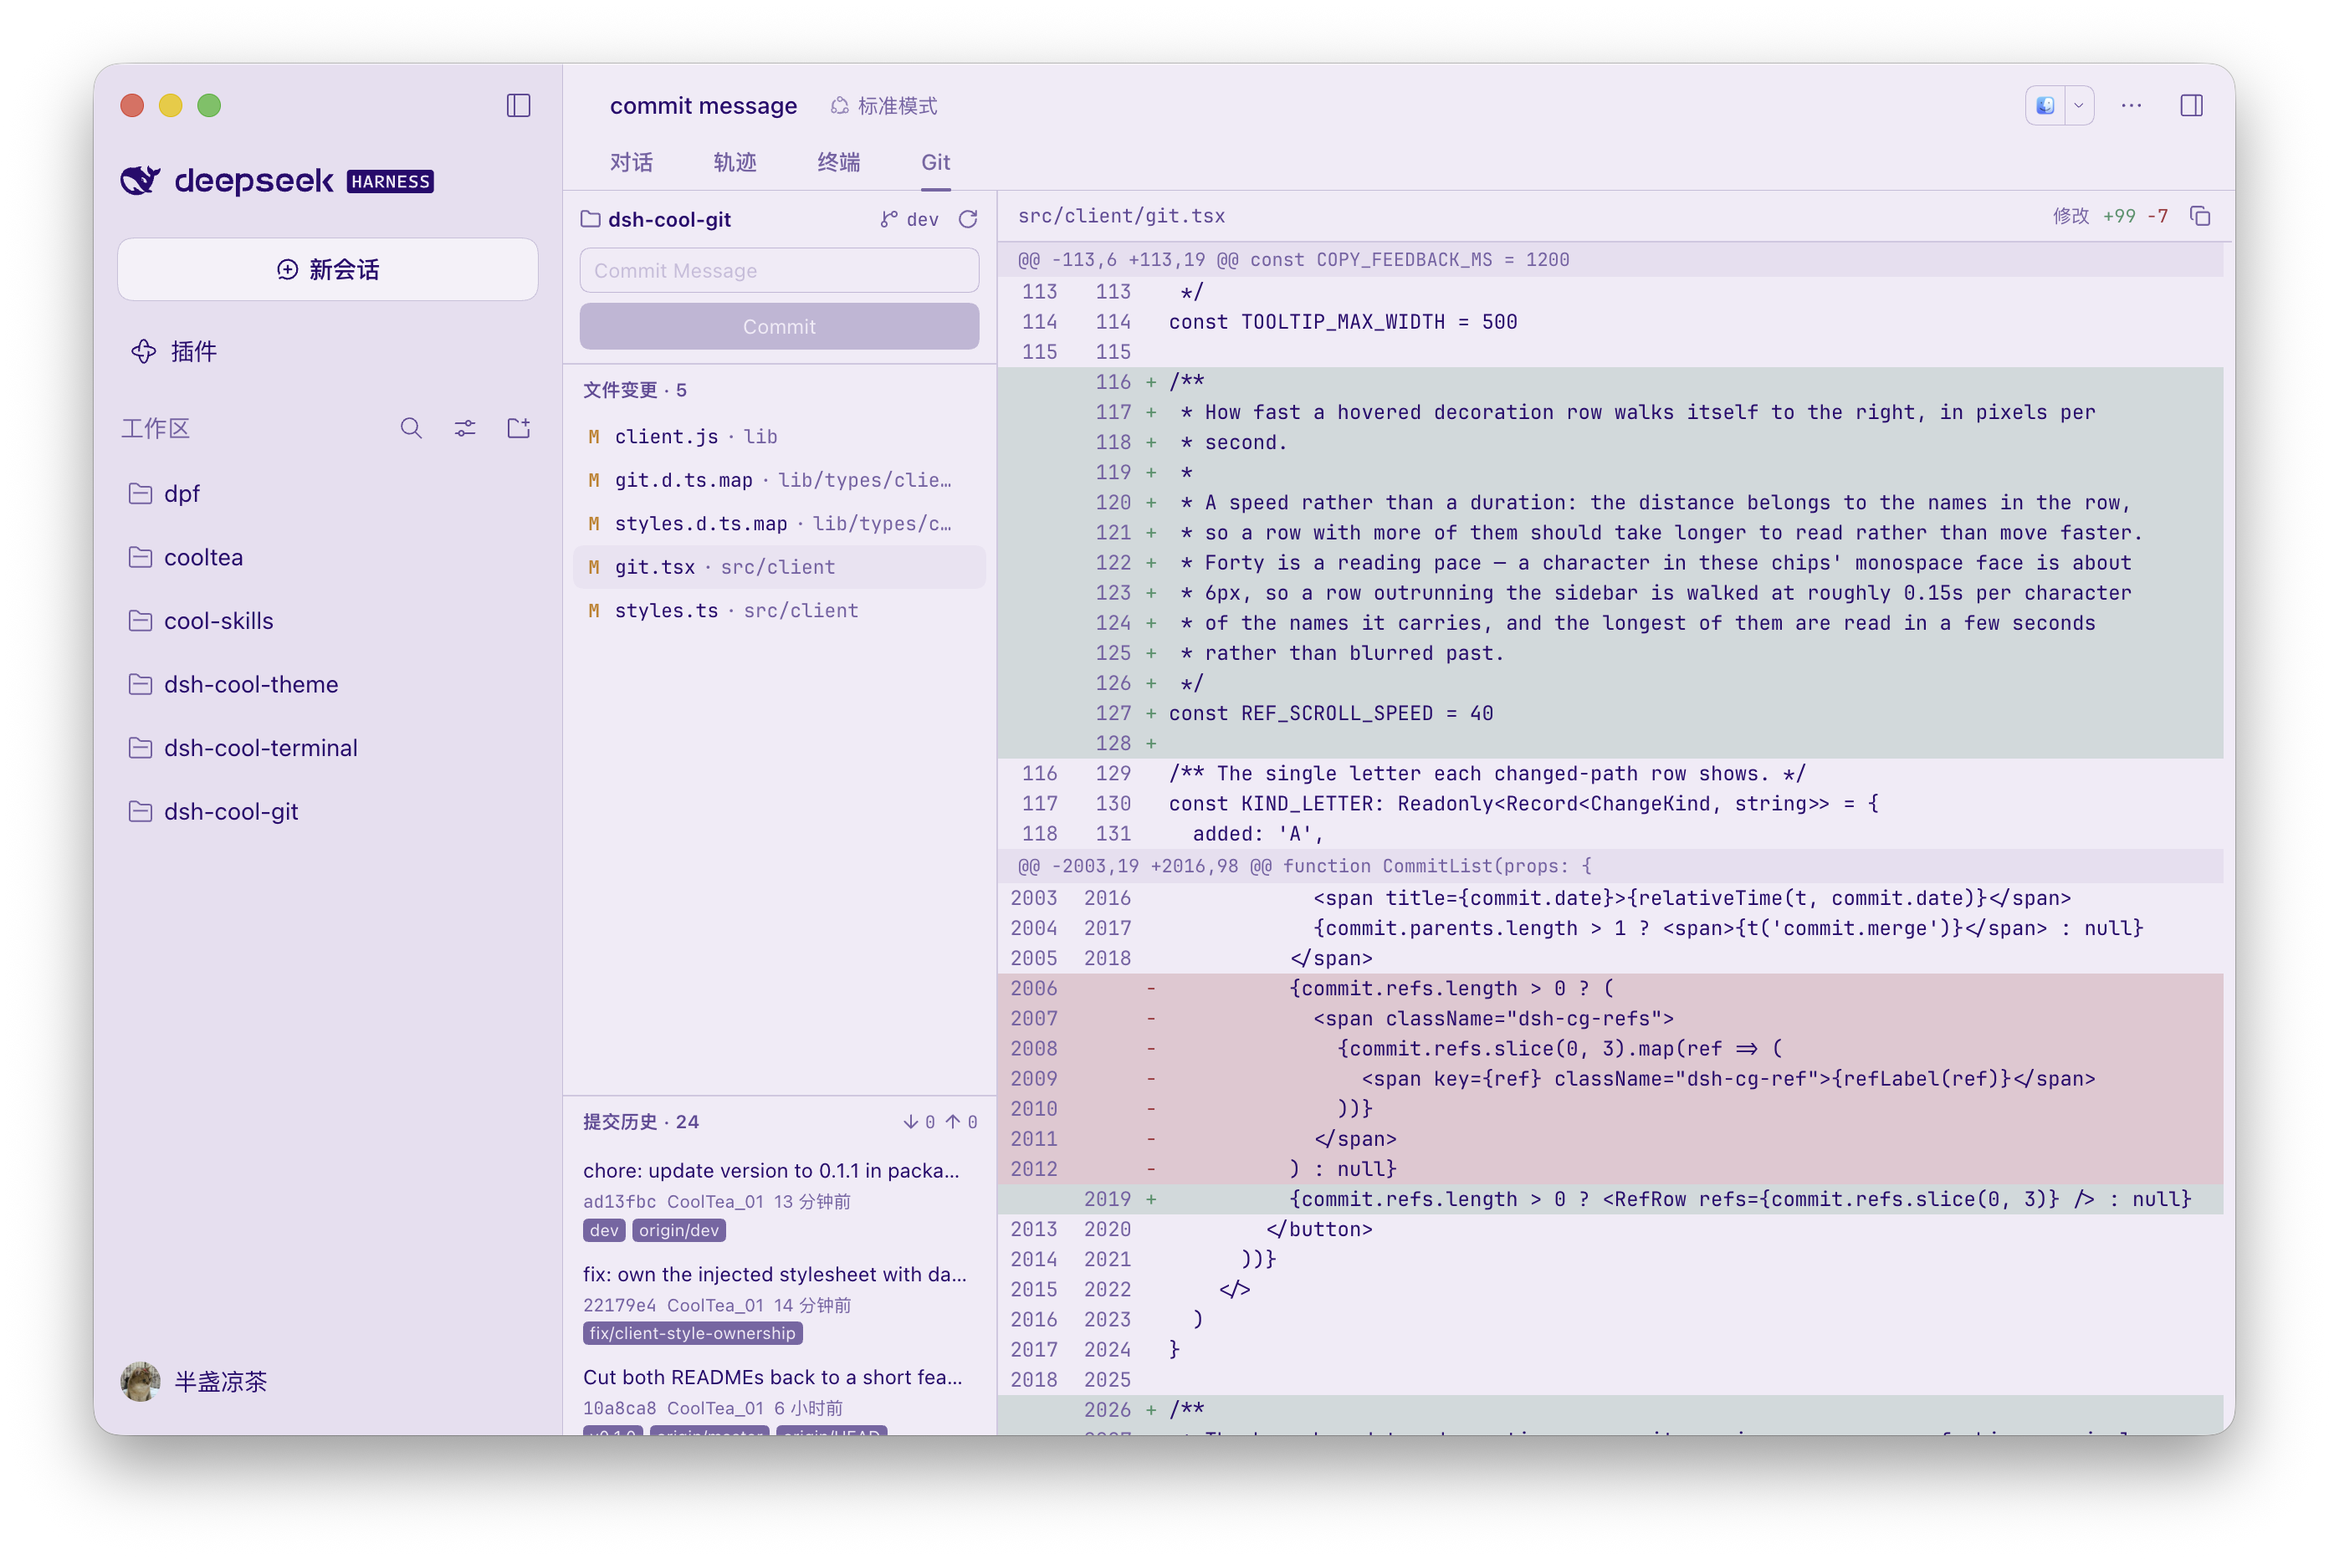
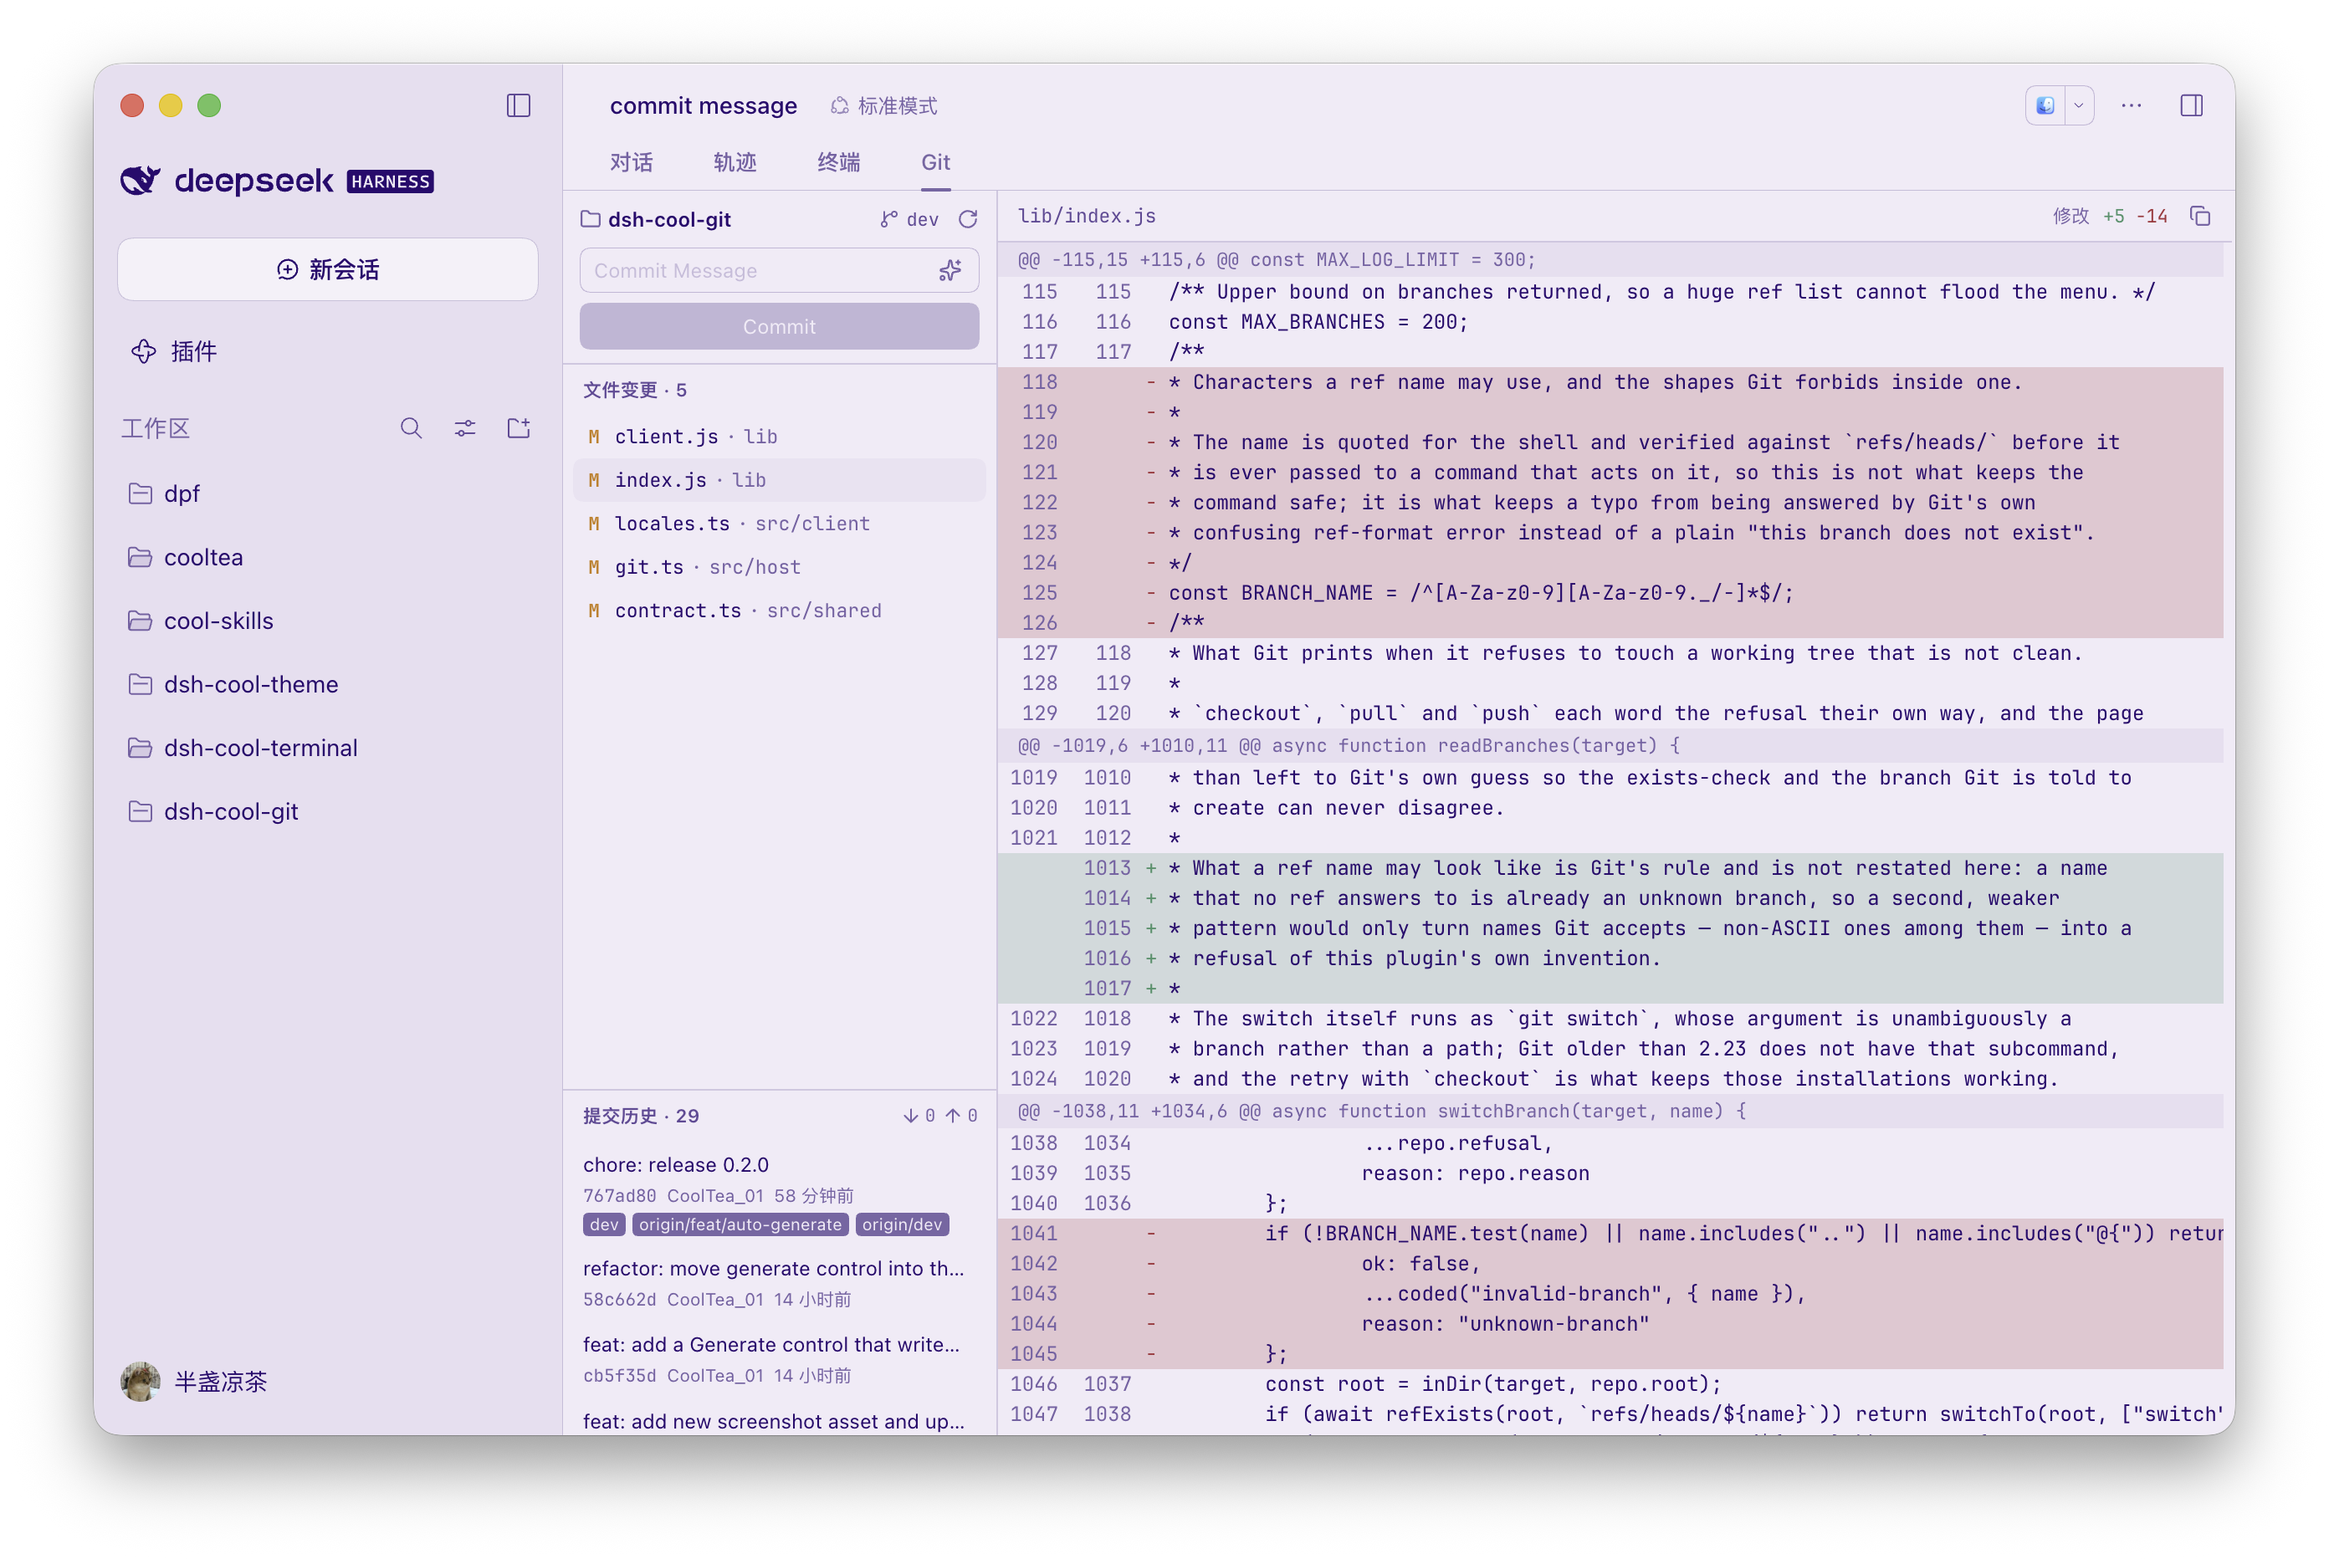
refactor: drop duplicate branch name validation in switchBranch
Remove the BRANCH_NAME pattern and the invalid-branch failure code
across host, contract and locales; an unknown ref already reports
unknown-branch, and the pattern rejected valid non-ASCII names.
Refresh the README cover to v0.2.0.

diff --git a/src/host/git.ts b/src/host/git.ts
@@ -77,16 +77,6 @@ const MAX_LOG_LIMIT = 300
 const MAX_BRANCHES = 200
 
 /**
- * Characters a ref name may use, and the shapes Git forbids inside one.
- *
- * The name is quoted for the shell and verified against `refs/heads/` before it
- * is ever passed to a command that acts on it, so this is not what keeps the
- * command safe; it is what keeps a typo from being answered by Git's own
- * confusing ref-format error instead of a plain "this branch does not exist".
- */
-const BRANCH_NAME = /^[A-Za-z0-9][A-Za-z0-9._/-]*$/
-
-/**
  * What Git prints when it refuses to touch a working tree that is not clean.
  *
  * `checkout`, `pull` and `push` each word the refusal their own way, and the page
@@ -969,6 +959,11 @@ export async function readBranches(target: GitTarget): Promise<BranchesPayload> 
  * than left to Git's own guess so the exists-check and the branch Git is told to
  * create can never disagree.
  *
+ * What a ref name may look like is Git's rule and is not restated here: a name
+ * that no ref answers to is already an unknown branch, so a second, weaker
+ * pattern would only turn names Git accepts — non-ASCII ones among them — into a
+ * refusal of this plugin's own invention.
+ *
  * The switch itself runs as `git switch`, whose argument is unambiguously a
  * branch rather than a path; Git older than 2.23 does not have that subcommand,
  * and the retry with `checkout` is what keeps those installations working.
@@ -984,10 +979,6 @@ export async function readBranches(target: GitTarget): Promise<BranchesPayload> 
 export async function switchBranch(target: GitTarget, name: string): Promise<CheckoutPayload> {
   const repo = await resolveRepo(target)
   if ('refusal' in repo) return { ok: false, ...repo.refusal, reason: repo.reason }
-  if (!BRANCH_NAME.test(name) || name.includes('..') || name.includes('@{')) {
-    return { ok: false, ...coded('invalid-branch', { name }), reason: 'unknown-branch' }
-  }
-
   const root = inDir(target, repo.root)
   if (await refExists(root, `refs/heads/${name}`)) {
     return switchTo(root, ['switch', name], ['checkout', name], name)

diff --git a/lib/index.js b/lib/index.js
@@ -115,15 +115,6 @@ const MAX_LOG_LIMIT = 300;
 /** Upper bound on branches returned, so a huge ref list cannot flood the menu. */
 const MAX_BRANCHES = 200;
 /**
-* Characters a ref name may use, and the shapes Git forbids inside one.
-*
-* The name is quoted for the shell and verified against `refs/heads/` before it
-* is ever passed to a command that acts on it, so this is not what keeps the
-* command safe; it is what keeps a typo from being answered by Git's own
-* confusing ref-format error instead of a plain "this branch does not exist".
-*/
-const BRANCH_NAME = /^[A-Za-z0-9][A-Za-z0-9._/-]*$/;
-/**
 * What Git prints when it refuses to touch a working tree that is not clean.
 *
 * `checkout`, `pull` and `push` each word the refusal their own way, and the page
@@ -1019,6 +1010,11 @@ async function readBranches(target) {
 * than left to Git's own guess so the exists-check and the branch Git is told to
 * create can never disagree.
 *
+* What a ref name may look like is Git's rule and is not restated here: a name
+* that no ref answers to is already an unknown branch, so a second, weaker
+* pattern would only turn names Git accepts — non-ASCII ones among them — into a
+* refusal of this plugin's own invention.
+*
 * The switch itself runs as `git switch`, whose argument is unambiguously a
 * branch rather than a path; Git older than 2.23 does not have that subcommand,
 * and the retry with `checkout` is what keeps those installations working.
@@ -1037,11 +1033,6 @@ async function switchBranch(target, name) {
 		ok: false,
 		...repo.refusal,
 		reason: repo.reason
-	};
-	if (!BRANCH_NAME.test(name) || name.includes("..") || name.includes("@{")) return {
-		ok: false,
-		...coded("invalid-branch", { name }),
-		reason: "unknown-branch"
 	};
 	const root = inDir(target, repo.root);
 	if (await refExists(root, `refs/heads/${name}`)) return switchTo(root, ["switch", name], ["checkout", name], name);

diff --git a/lib/client.js b/lib/client.js
@@ -115,7 +115,6 @@ window.__ModuleLoader__.load({
 			"error.no-root": "git returned no repository root",
 			"error.no-commits": "This repository has no commits yet",
 			"error.unparsable-commit": "Could not parse that commit",
-			"error.invalid-branch": "Invalid branch name: {name}",
 			"error.unknown-branch": "No such branch: {name}",
 			"error.remote-local-name": "Could not derive a local branch name from the remote branch: {name}",
 			"error.checkout-denied": "The current permission mode does not allow switching branches: it needs to write the workspace",
@@ -248,7 +247,6 @@ window.__ModuleLoader__.load({
 			"error.no-root": "git 未返回仓库根目录",
 			"error.no-commits": "该仓库还没有任何提交",
 			"error.unparsable-commit": "无法解析该提交",
-			"error.invalid-branch": "分支名不合法：{name}",
 			"error.unknown-branch": "分支不存在：{name}",
 			"error.remote-local-name": "无法从远程分支推导本地分支名：{name}",
 			"error.checkout-denied": "当前权限模式不允许切换分支：该操作需要写入工作区",

diff --git a/src/client/locales.ts b/src/client/locales.ts
@@ -276,7 +276,6 @@ export const en = {
   'error.no-commits': 'This repository has no commits yet',
   'error.unparsable-commit': 'Could not parse that commit',
 
-  'error.invalid-branch': 'Invalid branch name: {name}',
   'error.unknown-branch': 'No such branch: {name}',
   'error.remote-local-name': 'Could not derive a local branch name from the remote branch: {name}',
   'error.checkout-denied': 'The current permission mode does not allow switching branches: it needs to write the workspace',
@@ -433,7 +432,6 @@ export const zh: typeof en = {
   'error.no-commits': '该仓库还没有任何提交',
   'error.unparsable-commit': '无法解析该提交',
 
-  'error.invalid-branch': '分支名不合法：{name}',
   'error.unknown-branch': '分支不存在：{name}',
   'error.remote-local-name': '无法从远程分支推导本地分支名：{name}',
   'error.checkout-denied': '当前权限模式不允许切换分支：该操作需要写入工作区',

diff --git a/src/shared/contract.ts b/src/shared/contract.ts
@@ -47,7 +47,6 @@ export type FailureCode =
   | 'no-commits'
   | 'unparsable-commit'
   // Switching branches.
-  | 'invalid-branch'
   | 'unknown-branch'
   | 'remote-local-name'
   | 'checkout-denied'

diff --git a/README.zh.md b/README.zh.md
@@ -1,4 +1,4 @@
-![dsh-cool-git 封面](https://cdn.cooltea.top/dsh-cool-git/readme-cover-v0.1.0.png)
+![dsh-cool-git 封面](https://cdn.cooltea.top/dsh-cool-git/readme-cover-v0.2.0.png)
 
 # dsh-cool-git
 

diff --git a/README.md b/README.md
@@ -1,4 +1,4 @@
-![dsh-cool-git cover](https://cdn.cooltea.top/dsh-cool-git/readme-cover-v0.1.0.png)
+![dsh-cool-git cover](https://cdn.cooltea.top/dsh-cool-git/readme-cover-v0.2.0.png)
 
 # dsh-cool-git
 
